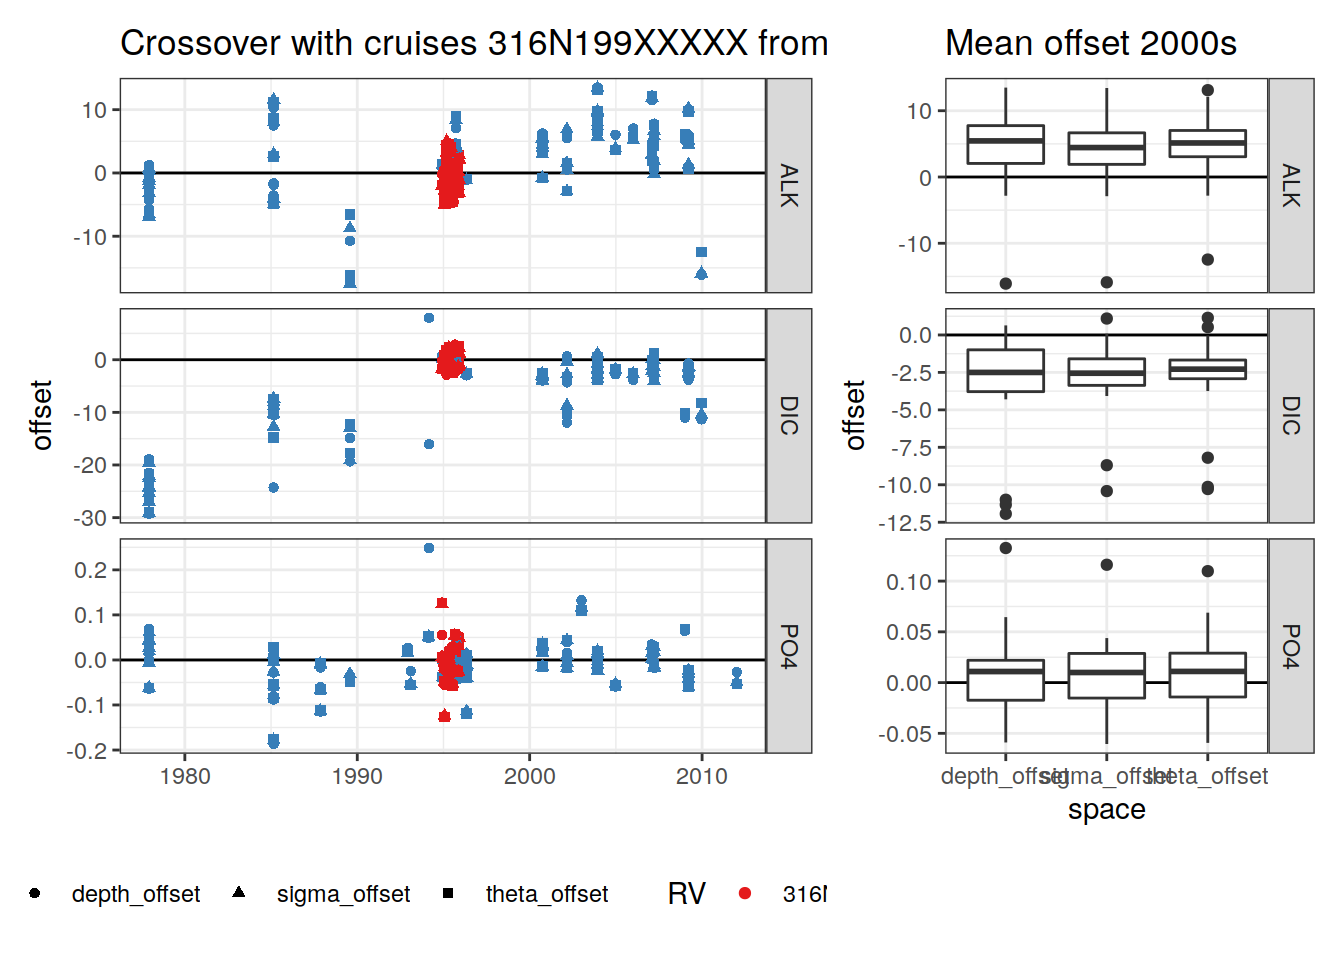
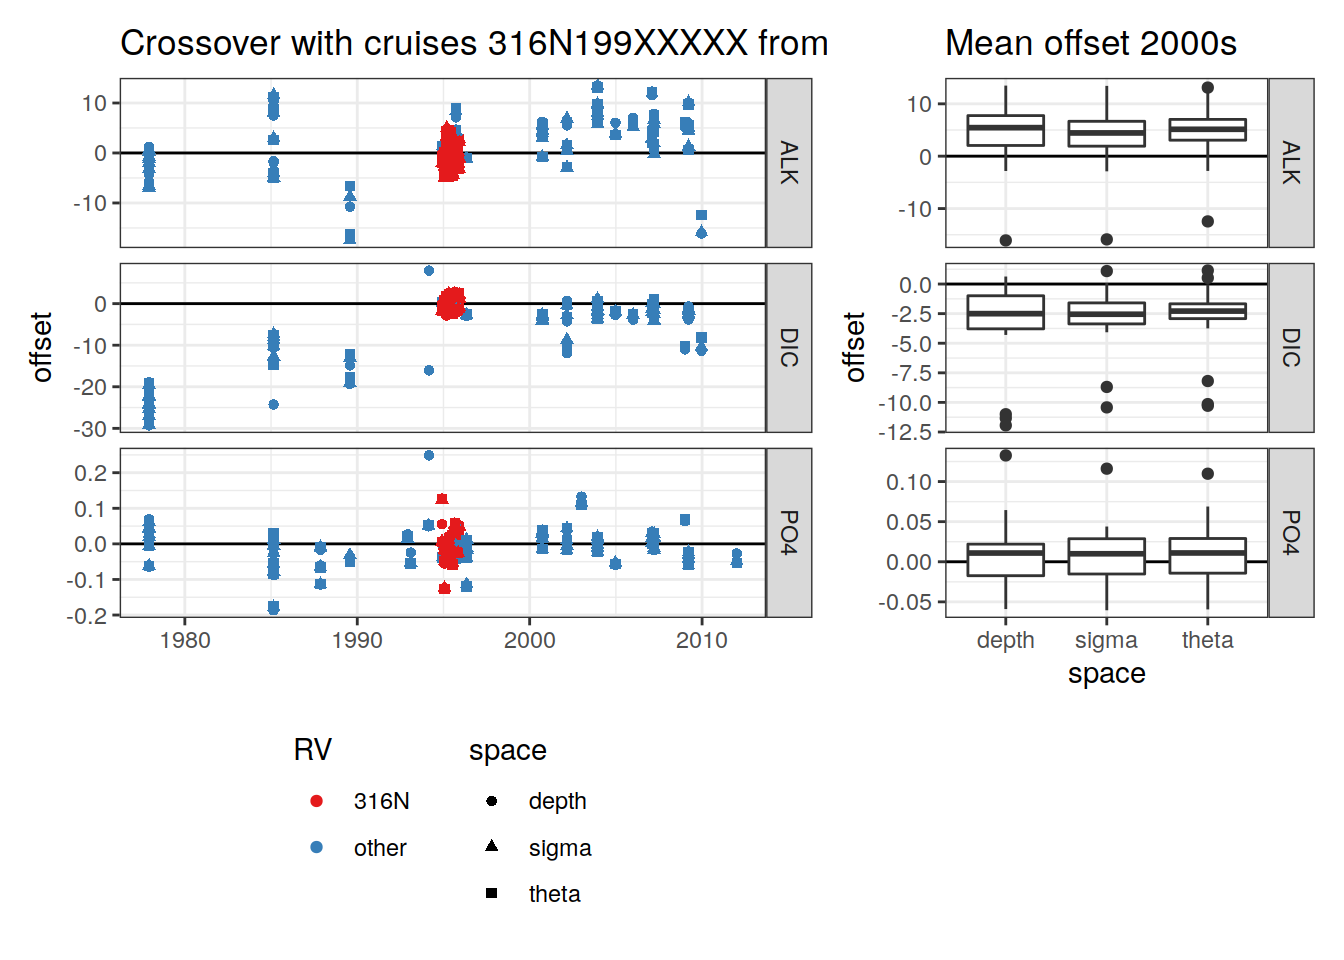
Build site.

diff --git a/docs/eMLR_data_preparation.html b/docs/eMLR_data_preparation.html
@@ -577,16 +577,16 @@ This reproducible <a href="http://rmarkdown.rstudio.com">R Markdown</a> analysis
 <div class="panel panel-default">
 <div class="panel-heading">
 <p class="panel-title">
-<a data-toggle="collapse" data-parent="#workflowr-checks" href="#strongRepositoryversionstrongahrefhttpsgithubcomjensdanielmuelleremlrobsvXXXtreec9725205ea7c2794876ee58cda81b6cee71b8643targetblankc972520a"> <span class="glyphicon glyphicon-ok text-success" aria-hidden="true"></span> <strong>Repository version:</strong> <a href="https://github.com/jens-daniel-mueller/emlr_obs_v_XXX/tree/c9725205ea7c2794876ee58cda81b6cee71b8643" target="_blank">c972520</a> </a>
+<a data-toggle="collapse" data-parent="#workflowr-checks" href="#strongRepositoryversionstrongahrefhttpsgithubcomjensdanielmuelleremlrobsvXXXtreeca697b4e6061c9ab126a12a06ed3f3cc0b323818targetblankca697b4a"> <span class="glyphicon glyphicon-ok text-success" aria-hidden="true"></span> <strong>Repository version:</strong> <a href="https://github.com/jens-daniel-mueller/emlr_obs_v_XXX/tree/ca697b4e6061c9ab126a12a06ed3f3cc0b323818" target="_blank">ca697b4</a> </a>
 </p>
 </div>
[2 lines of base64/hex data omitted]
 <div class="panel-body">
 <p>
 Great! You are using Git for version control. Tracking code development and connecting the code version to the results is critical for reproducibility.
 </p>
 <p>
-The results in this page were generated with repository version <a href="https://github.com/jens-daniel-mueller/emlr_obs_v_XXX/tree/c9725205ea7c2794876ee58cda81b6cee71b8643" target="_blank">c972520</a>. See the <em>Past versions</em> tab to see a history of the changes made to the R Markdown and HTML files.
+The results in this page were generated with repository version <a href="https://github.com/jens-daniel-mueller/emlr_obs_v_XXX/tree/ca697b4e6061c9ab126a12a06ed3f3cc0b323818" target="_blank">ca697b4</a>. See the <em>Past versions</em> tab to see a history of the changes made to the R Markdown and HTML files.
 </p>
 <p>
 Note that you need to be careful to ensure that all relevant files for the analysis have been committed to Git prior to generating the results (you can use <code>wflow_publish</code> or <code>wflow_git_commit</code>). workflowr only checks the R Markdown file, but you know if there are other scripts or data files that it depends on. Below is the status of the Git repository when the results were generated:
@@ -639,6 +639,40 @@ Message
 </tr>
 </thead>
 <tbody>
+<tr>
+<td>
+Rmd
+</td>
+<td>
+<a href="https://github.com/jens-daniel-mueller/emlr_obs_v_XXX/blob/ca697b4e6061c9ab126a12a06ed3f3cc0b323818/analysis/eMLR_data_preparation.Rmd" target="_blank">ca697b4</a>
+</td>
+<td>
+jens-daniel-mueller
+</td>
+<td>
+2021-12-07
+</td>
+<td>
+applied adjustments to crossover offsets
+</td>
+</tr>
+<tr>
+<td>
+html
+</td>
+<td>
+<a href="https://rawcdn.githack.com/jens-daniel-mueller/emlr_obs_v_XXX/bc1f0d20ac444cea18078efc14e2c45ccf73229a/docs/eMLR_data_preparation.html" target="_blank">bc1f0d2</a>
+</td>
+<td>
+jens-daniel-mueller
+</td>
+<td>
+2021-12-07
+</td>
+<td>
+Build site.
+</td>
+</tr>
 <tr>
 <td>
 Rmd
@@ -7139,13 +7173,12 @@ GLODAP_adjustments_long &lt;- GLODAP_adjustments %&gt;%
                names_to = &quot;parameter&quot;,
                values_to = &quot;adjustment&quot;)
 
-
 GLODAP_crossover &lt;- left_join(GLODAP_crossover,
           GLODAP_adjustments_long %&gt;% 
             select(CruiseA_EXPOCODE = cruise_expocode,
                    parameter,
                    first_station_A = first_station,
-                   last_station_A = first_station,
+                   last_station_A = last_station,
                    adjustment_A = adjustment))
 
 GLODAP_crossover &lt;- left_join(GLODAP_crossover,
@@ -7160,7 +7193,8 @@ GLODAP_crossover &lt;- GLODAP_crossover %&gt;%
   pivot_longer(ends_with(&quot;offset&quot;),
                names_to = &quot;space&quot;,
                values_to = &quot;offset&quot;) %&gt;% 
-  mutate(offset_adj = offset + adjustment_A - adjustment_B)
+  mutate(offset_adj = offset + adjustment_A - adjustment_B,
+         space = str_remove(space, &quot;_offset&quot;))
 
 GLODAP_crossover_IO_1990_A &lt;- GLODAP_crossover %&gt;%
   filter(CruiseA_EXPOCODE %in% IO_1990_expocodes)
@@ -7193,7 +7227,24 @@ GLODAP_crossover_IO_1990 &lt;- GLODAP_crossover_IO_1990 %&gt;%
                       &quot;316N&quot;,
                       &quot;other&quot;))
 
-p_crossover_ts &lt;- GLODAP_crossover_IO_1990 %&gt;%
+GLODAP_crossover_IO_1990 %&gt;% 
+  count(CruiseA_EXPOCODE, CruiseB_EXPOCODE, parameter, space) %&gt;% 
+  filter(n &gt; 1)</code></pre>
+<pre><code>[38;5;246m# A tibble: 324 × 5[39m
+   CruiseA_EXPOCODE CruiseB_EXPOCODE parameter space     n
+   [3m[38;5;246m&lt;chr&gt;[39m[23m            [3m[38;5;246m&lt;chr&gt;[39m[23m            [3m[38;5;246m&lt;chr&gt;[39m[23m     [3m[38;5;246m&lt;chr&gt;[39m[23m [3m[38;5;246m&lt;int&gt;[39m[23m
+[38;5;250m 1[39m 316N19941201     318M19771204     ALK       depth     5
+[38;5;250m 2[39m 316N19941201     318M19771204     ALK       sigma     5
+[38;5;250m 3[39m 316N19941201     318M19771204     ALK       theta     5
+[38;5;250m 4[39m 316N19941201     318M19771204     DIC       depth     5
+[38;5;250m 5[39m 316N19941201     318M19771204     DIC       sigma     5
+[38;5;250m 6[39m 316N19941201     318M19771204     DIC       theta     5
+[38;5;250m 7[39m 316N19941201     318M19771204     PO4       depth     5
+[38;5;250m 8[39m 316N19941201     318M19771204     PO4       sigma     5
+[38;5;250m 9[39m 316N19941201     318M19771204     PO4       theta     5
+[38;5;250m10[39m 316N19941201     35MF19850224     ALK       depth     3
+[38;5;246m# … with 314 more rows[39m</code></pre>
+<pre class="r"><code>p_crossover_ts &lt;- GLODAP_crossover_IO_1990 %&gt;%
   ggplot(aes(dateB, offset, shape = space, col=RV)) +
   geom_hline(yintercept = 0) +
   geom_point() +
@@ -7201,6 +7252,7 @@ p_crossover_ts &lt;- GLODAP_crossover_IO_1990 %&gt;%
   facet_grid(parameter~., scales = &quot;free_y&quot;) +
   labs(title = &quot;Crossover with cruises 316N199XXXXX from IO&quot;) +
   theme(legend.position = &quot;bottom&quot;,
+        legend.direction = &quot;vertical&quot;,
         axis.title.x = element_blank())
 
 p_crossover_space &lt;- GLODAP_crossover_IO_1990 %&gt;%
@@ -7236,6 +7288,17 @@ Date
 </tr>
 </thead>
 <tbody>
+<tr>
+<td>
+<a href="https://github.com/jens-daniel-mueller/emlr_obs_v_XXX/blob/bc1f0d20ac444cea18078efc14e2c45ccf73229a/docs/figure/eMLR_data_preparation.Rmd/crossover_analysis_data-1.png" target="_blank">bc1f0d2</a>
+</td>
+<td>
+jens-daniel-mueller
+</td>
+<td>
+2021-12-07
+</td>
+</tr>
 <tr>
 <td>
 <a href="https://github.com/jens-daniel-mueller/emlr_obs_v_XXX/blob/e7f4844105d192b17829bd03dfc983a52bbbdac2/docs/figure/eMLR_data_preparation.Rmd/crossover_analysis_data-1.png" target="_blank">e7f4844</a>
@@ -7341,6 +7404,17 @@ Date
 <tbody>
 <tr>
 <td>
+<a href="https://github.com/jens-daniel-mueller/emlr_obs_v_XXX/blob/bc1f0d20ac444cea18078efc14e2c45ccf73229a/docs/figure/eMLR_data_preparation.Rmd/crossover_analysis_data-2.png" target="_blank">bc1f0d2</a>
+</td>
+<td>
+jens-daniel-mueller
+</td>
+<td>
+2021-12-07
+</td>
+</tr>
+<tr>
+<td>
 <a href="https://github.com/jens-daniel-mueller/emlr_obs_v_XXX/blob/e7f4844105d192b17829bd03dfc983a52bbbdac2/docs/figure/eMLR_data_preparation.Rmd/crossover_analysis_data-2.png" target="_blank">e7f4844</a>
 </td>
 <td>
@@ -7365,10 +7439,10 @@ jens-daniel-mueller
 </table>
 </div>
 </div>
-<pre class="r"><code>p_adjustment_ts &lt;- GLODAP_crossover_IO_1990 %&gt;%
+<pre class="r"><code>p_adjustment_A_ts &lt;- GLODAP_crossover_IO_1990 %&gt;%
   distinct(CruiseA_EXPOCODE, CruiseB_EXPOCODE, first_station_A, first_station_B,
-           dateB, adjustment_B, parameter, RV) %&gt;% 
-  ggplot(aes(dateB, adjustment_B, col=RV)) +
+           dateB, adjustment_A, parameter, RV) %&gt;% 
+  ggplot(aes(dateB, adjustment_A, col=RV)) +
   geom_point() +
   scale_color_brewer(palette = &quot;Set1&quot;) +
   facet_grid(parameter~., scales = &quot;free_y&quot;) +
@@ -7376,7 +7450,7 @@ jens-daniel-mueller
   theme(legend.position = &quot;left&quot;,
         axis.title.x = element_blank())
 
-p_adjustment_ts</code></pre>
+p_adjustment_A_ts</code></pre>
 <p><img src="figure/eMLR_data_preparation.Rmd/crossover_analysis_data-3.png" width="672" style="display: block; margin: auto;" /></p>
 <p>
 <button type="button" class="btn btn-default btn-xs btn-workflowr btn-workflowr-fig" data-toggle="collapse" data-target="#fig-crossover_analysis_data-3">
@@ -7400,6 +7474,17 @@ Date
 </tr>
 </thead>
 <tbody>
+<tr>
+<td>
+<a href="https://github.com/jens-daniel-mueller/emlr_obs_v_XXX/blob/bc1f0d20ac444cea18078efc14e2c45ccf73229a/docs/figure/eMLR_data_preparation.Rmd/crossover_analysis_data-3.png" target="_blank">bc1f0d2</a>
+</td>
+<td>
+jens-daniel-mueller
+</td>
+<td>
+2021-12-07
+</td>
+</tr>
 <tr>
 <td>
 <a href="https://github.com/jens-daniel-mueller/emlr_obs_v_XXX/blob/e7f4844105d192b17829bd03dfc983a52bbbdac2/docs/figure/eMLR_data_preparation.Rmd/crossover_analysis_data-3.png" target="_blank">e7f4844</a>
@@ -7426,6 +7511,19 @@ jens-daniel-mueller
 </table>
 </div>
 </div>
+<pre class="r"><code>p_adjustment_B_ts &lt;- GLODAP_crossover_IO_1990 %&gt;%
+  distinct(CruiseA_EXPOCODE, CruiseB_EXPOCODE, first_station_B, first_station_B,
+           dateB, adjustment_B, parameter, RV) %&gt;% 
+  ggplot(aes(dateB, adjustment_B, col=RV)) +
+  geom_point() +
+  scale_color_brewer(palette = &quot;Set1&quot;) +
+  facet_grid(parameter~., scales = &quot;free_y&quot;) +
+  labs(title = &quot;Crossover with cruises 316N199XXXXX from IO&quot;) +
+  theme(legend.position = &quot;left&quot;,
+        axis.title.x = element_blank())
+
+p_adjustment_B_ts</code></pre>
+<p><img src="figure/eMLR_data_preparation.Rmd/crossover_analysis_data-4.png" width="672" style="display: block; margin: auto;" /></p>
 <pre class="r"><code>if (params$Version_ID == &quot;v_XXX&quot;) {
 
 GLODAP_crossover &lt;- GLODAP_crossover %&gt;%
